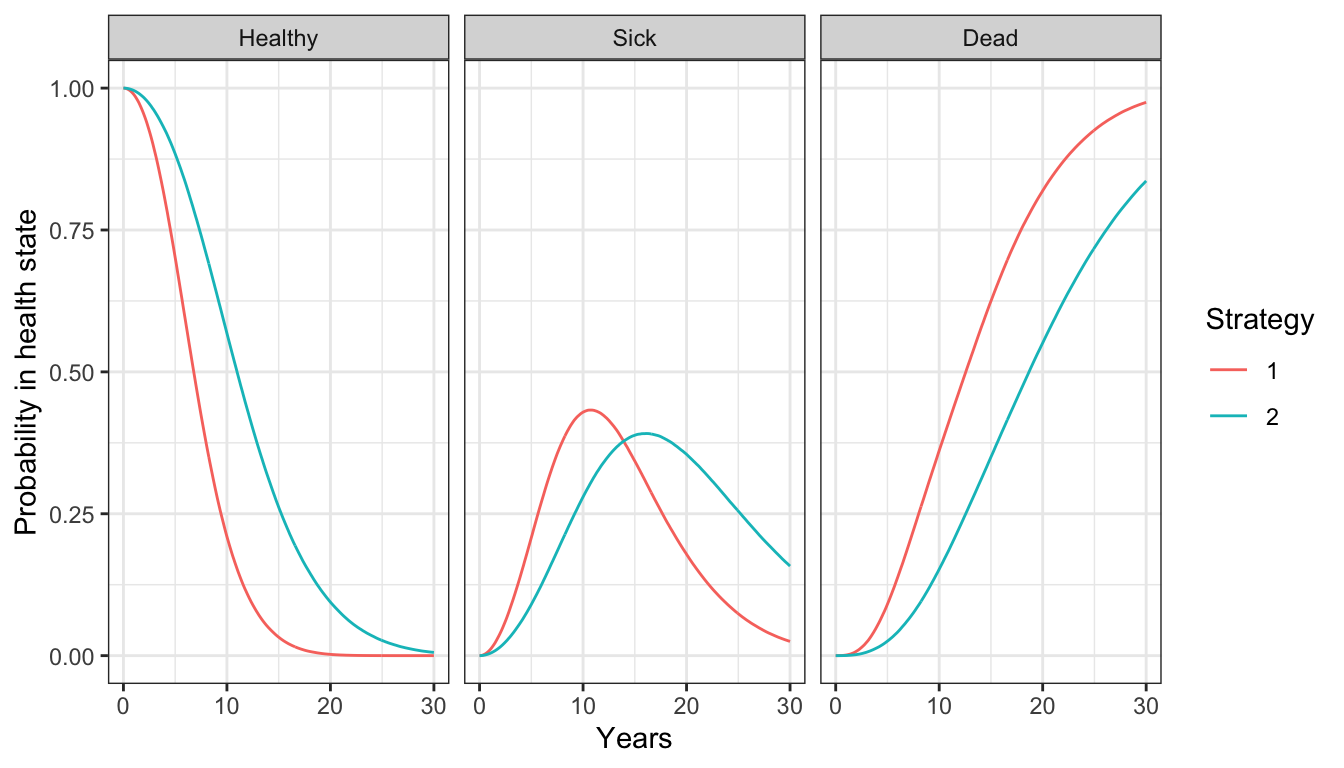
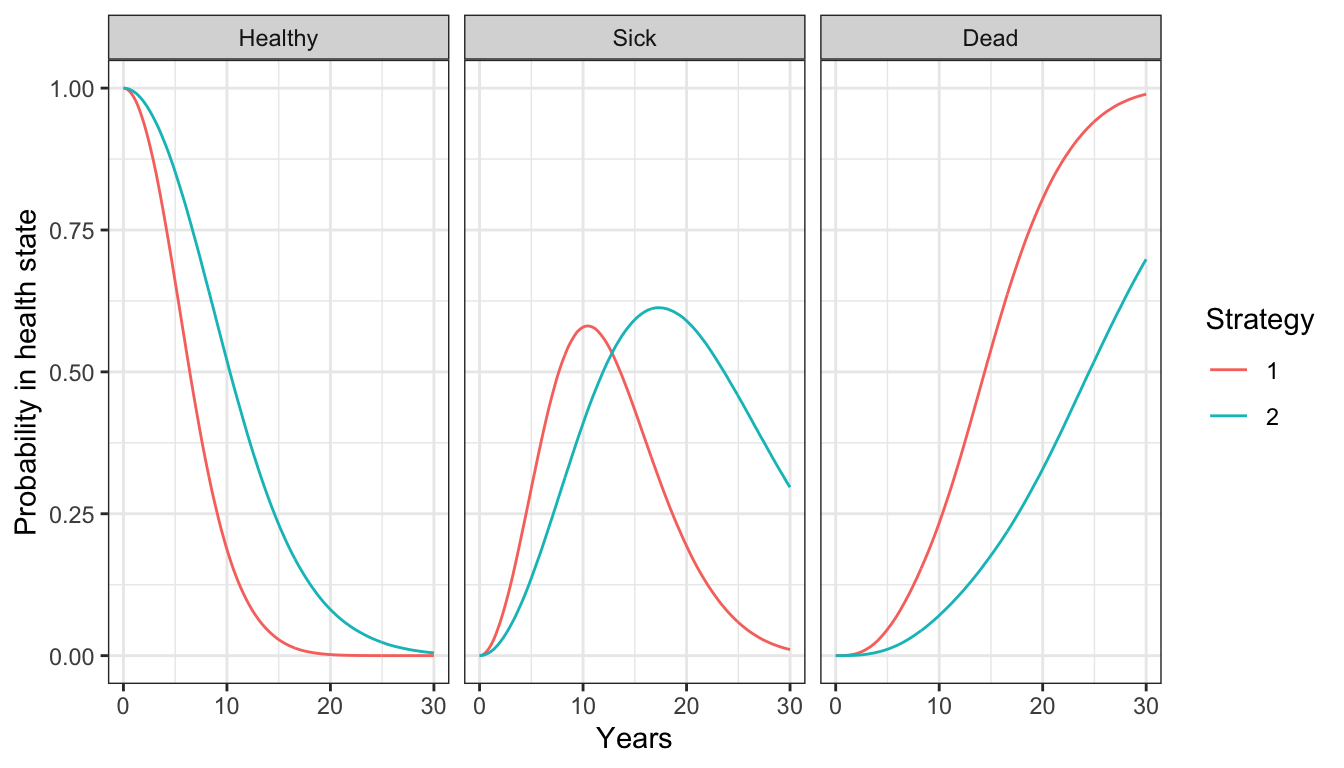
Add function references to website

diff --git a/docs/articles/mstate.html b/docs/articles/mstate.html
@@ -37,6 +37,9 @@
 
     <div id="navbar" class="navbar-collapse collapse">
       <ul class="nav navbar-nav">
+<li>
+  <a href="../reference/index.html">Reference</a>
+</li>
 <li class="dropdown">
   <a href="#" class="dropdown-toggle" data-toggle="dropdown" role="button" aria-expanded="false">
     Tutorials
@@ -88,7 +91,7 @@
     <div class="page-header toc-ignore">
       <h1 data-toc-skip>Semi-Markov Multi-state Model</h1>
             
-            <h4 class="date">2020-09-06</h4>
+            <h4 class="date">2020-09-07</h4>
       
       <small class="dont-index">Source: <a href="https://github.com/hesim-dev/ispor-short-course/blob/master/vignettes/mstate.Rmd"><code>vignettes/mstate.Rmd</code></a></small>
       <div class="hidden name"><code>mstate.Rmd</code></div>
@@ -194,19 +197,21 @@
 <div id="multi-state-model" class="section level2">
 <h2 class="hasAnchor">
 <a href="#multi-state-model" class="anchor"></a><span class="header-section-number">4.1</span> Multi-state model</h2>
-<p>Multi-state data consists of one row for each possible transition from a given health state where only one transition is observed and all others are censored. We created the function <code><a href="../reference/sim_mstate_data.html">sim_mstate_data()</a></code> which leverages <code>hesim</code> to simulate a hypothetical cohort of 2000 patients for a healthy-sick-dead model.</p>
-<div class="sourceCode" id="cb6"><html><body><pre class="r"><span class="no">data</span> <span class="kw">&lt;-</span> <span class="kw pkg">rcea</span><span class="kw ns">::</span><span class="fu"><a href="../reference/sim_mstate_data.html">sim_mstate_data</a></span>(<span class="kw">n</span> <span class="kw">=</span> <span class="fl">2000</span>)
+<p>Multi-state data consists of one row for each possible transition from a given health state where only one transition is observed and all others are censored. We created the function <code>sim_mstate_data()</code> which leverages <code>hesim</code> to simulate a hypothetical cohort of 2000 patients for a healthy-sick-dead model.</p>
+<div class="sourceCode" id="cb6"><html><body><pre class="r"><span class="no">data</span> <span class="kw">&lt;-</span> <span class="kw pkg">rcea</span><span class="kw ns">::</span><span class="fu"><a href="../reference/sim_mstate3_data.html">sim_mstate3_data</a></span>(<span class="kw">n</span> <span class="kw">=</span> <span class="fl">2000</span>)
 <span class="no">data</span>[<span class="no">patient_id</span> <span class="kw">%in%</span> <span class="fu"><a href="https://rdrr.io/r/base/c.html">c</a></span>(<span class="fl">1</span>, <span class="fl">2</span>)]</pre></body></html></div>
-<pre><code>##    from to female      age patient_id final time_start time_stop transition_id
-## 1:    1  2      1 54.37365          1     0          0         8             1
-## 2:    1  3      1 54.37365          1     0          0         8             1
-## 3:    1  2      1 58.93437          2     0          0         8             2
-## 4:    1  3      1 58.93437          2     1          0         8             2
-##    status strategy_id strategy_name time
-## 1:      0           2           New    8
-## 2:      0           2           New    8
-## 3:      0           1           SOC    8
-## 4:      0           1           SOC    8</code></pre>
+<pre><code>##    from to female      age patient_id final time_start time_stop status
+## 1:    1  2      1 54.37365          1     0    0.00000  11.66523      1
+## 2:    1  3      1 54.37365          1     0    0.00000  11.66523      0
+## 3:    2  3      1 54.37365          1     1   11.66523  15.00000      0
+## 4:    1  2      1 58.93437          2     0    0.00000  15.00000      0
+## 5:    1  3      1 58.93437          2     1    0.00000  15.00000      0
+##    transition_id strategy_id strategy_name      time
+## 1:             1           2           New 11.665231
+## 2:             2           2           New 11.665231
+## 3:             3           2           New  3.334769
+## 4:             1           1           SOC 15.000000
+## 5:             2           1           SOC 15.000000</code></pre>
 <p>Multi-state models can be fit by estimating a joint survival model with interaction terms for different transition (see the <code>hesim</code> <a href="https://hesim-dev.github.io/hesim/articles/intro.html">introductory vignette</a> for more details) or by fitting separate survival models for each transition. We will take the latter approach and and fit 3 parametric Weibull models. (Note that in an applied example you should compare the performance of multiple distributions.)</p>
 <div class="sourceCode" id="cb8"><html><body><pre class="r"><span class="no">n_trans</span> <span class="kw">&lt;-</span> <span class="fu"><a href="https://rdrr.io/r/base/Extremes.html">max</a></span>(<span class="no">tmat</span>, <span class="kw">na.rm</span> <span class="kw">=</span> <span class="fl">TRUE</span>) <span class="co"># Number of transitions</span>
 <span class="no">wei_fits</span> <span class="kw">&lt;-</span> <span class="fu"><a href="https://rdrr.io/r/base/vector.html">vector</a></span>(<span class="kw">length</span> <span class="kw">=</span> <span class="no">n_trans</span>, <span class="kw">mode</span> <span class="kw">=</span> <span class="st">"list"</span>)
@@ -332,12 +337,12 @@
 <div class="sourceCode" id="cb21"><html><body><pre class="r"><span class="no">econmod</span>$<span class="fu">sim_disease</span>(<span class="kw">max_age</span> <span class="kw">=</span> <span class="fl">100</span>)
 <span class="fu"><a href="https://rdrr.io/r/utils/head.html">head</a></span>(<span class="no">econmod</span>$<span class="no">disprog_</span>)</pre></body></html></div>
 <pre><code>##    sample strategy_id patient_id grp_id from to final time_start time_stop
-## 1:      1           1          1      1    1  3     1   0.000000  8.547690
-## 2:      1           1          2      1    1  2     0   0.000000  2.740025
-## 3:      1           1          2      1    2  3     1   2.740025 14.654683
-## 4:      1           1          3      1    1  2     0   0.000000  7.151150
-## 5:      1           1          3      1    2  3     1   7.151150 26.324771
-## 6:      1           1          4      1    1  2     0   0.000000 12.604367</code></pre>
+## 1:      1           1          1      1    1  2     0   0.000000 10.270374
+## 2:      1           1          1      1    2  3     1  10.270374 15.265547
+## 3:      1           1          2      1    1  2     0   0.000000  1.405695
+## 4:      1           1          2      1    2  3     1   1.405695  8.443941
+## 5:      1           1          3      1    1  2     0   0.000000  3.826669
+## 6:      1           1          3      1    2  3     1   3.826669 17.575081</code></pre>
 <p>The IPS can be summarized by computing state occupancy probabilities at different time points. We do that using <code>$sim_stateprobs()</code>.</p>
 <div class="sourceCode" id="cb23"><html><body><pre class="r"><span class="no">econmod</span>$<span class="fu">sim_stateprobs</span>(<span class="kw">t</span> <span class="kw">=</span> <span class="fu"><a href="https://rdrr.io/r/base/seq.html">seq</a></span>(<span class="fl">0</span>, <span class="fl">30</span> , <span class="fl">1</span>/<span class="fl">12</span>))</pre></body></html></div>
 <p><img src="mstate_files/figure-html/unnamed-chunk-17-1.png" width="672"></p>
@@ -349,22 +354,22 @@
 <div class="sourceCode" id="cb24"><html><body><pre class="r"><span class="no">econmod</span>$<span class="fu"><a href="https://rdrr.io/pkg/hesim/man/sim_ev.html">sim_qalys</a></span>(<span class="kw">dr</span> <span class="kw">=</span> <span class="fu"><a href="https://rdrr.io/r/base/c.html">c</a></span>(<span class="fl">0</span>,<span class="fl">.03</span>))
 <span class="fu"><a href="https://rdrr.io/r/utils/head.html">head</a></span>(<span class="no">econmod</span>$<span class="no">qalys_</span>)</pre></body></html></div>
 <pre><code>##    sample strategy_id grp_id state_id dr     qalys       lys
-## 1:      1           1      1        1  0  7.333490  7.333490
-## 2:      1           1      1        2  0  5.282375  7.995782
-## 3:      1           2      1        1  0 11.858581 11.858581
-## 4:      1           2      1        2  0  6.594848  9.982434
-## 5:      2           1      1        1  0  7.260854  7.260854
-## 6:      2           1      1        2  0  3.838045  5.556297</code></pre>
+## 1:      1           1      1        1  0  6.826347  6.826347
+## 2:      1           1      1        2  0  5.506157  8.334513
+## 3:      1           2      1        1  0 11.260634 11.260634
+## 4:      1           2      1        2  0  9.218637 13.953990
+## 5:      2           1      1        1  0  6.903153  6.903153
+## 6:      2           1      1        2  0  5.416277  7.841088</code></pre>
 <p>Costs for each category are simulated in a similar fashion.</p>
 <div class="sourceCode" id="cb26"><html><body><pre class="r"><span class="no">econmod</span>$<span class="fu"><a href="https://rdrr.io/pkg/hesim/man/sim_ev.html">sim_costs</a></span>(<span class="kw">dr</span> <span class="kw">=</span> <span class="fl">0.03</span>)
 <span class="fu"><a href="https://rdrr.io/r/utils/head.html">head</a></span>(<span class="no">econmod</span>$<span class="no">costs_</span>)</pre></body></html></div>
-<pre><code>##    sample strategy_id grp_id state_id   dr category      costs
-## 1:      1           1      1        1 0.03     Drug  12855.508
-## 2:      1           1      1        2 0.03     Drug  10401.950
-## 3:      1           2      1        1 0.03     Drug 115346.101
-## 4:      1           2      1        2 0.03     Drug  54735.910
-## 5:      2           1      1        1 0.03     Drug  12772.939
-## 6:      2           1      1        2 0.03     Drug   7765.597</code></pre>
+<pre><code>##    sample strategy_id grp_id state_id   dr category     costs
+## 1:      1           1      1        1 0.03     Drug  12041.74
+## 2:      1           1      1        2 0.03     Drug  11616.02
+## 3:      1           2      1        1 0.03     Drug 110147.39
+## 4:      1           2      1        2 0.03     Drug  77654.61
+## 5:      2           1      1        1 0.03     Drug  12150.26
+## 6:      2           1      1        2 0.03     Drug  10999.10</code></pre>
 </div>
 </div>
 </div>
@@ -378,10 +383,10 @@
                        <span class="kw">k</span> <span class="kw">=</span> <span class="fu"><a href="https://rdrr.io/r/base/seq.html">seq</a></span>(<span class="fl">0</span>, <span class="fl">25000</span>, <span class="fl">500</span>))
 <span class="fu"><a href="https://rdrr.io/pkg/hesim/man/icer_tbl.html">icer_tbl</a></span>(<span class="no">icea_pw_out</span>, <span class="kw">colnames</span> <span class="kw">=</span> <span class="no">strategies</span>$<span class="no">strategy_name</span>)</pre></body></html></div>
 <pre><code>##                   SOC New                         
-## Incremental QALYs "-" "3.49 (2.40, 4.53)"         
-## Incremental costs "-" "152,391 (125,763, 195,642)"
-## Incremental NMB   "-" "21,958 (-14,094, 59,000)"  
-## ICER              "-" "43,703"                    
+## Incremental QALYs "-" "4.42 (3.94, 5.01)"         
+## Incremental costs "-" "191,254 (164,247, 249,102)"
+## Incremental NMB   "-" "29,925 (-29,270, 66,594)"  
+## ICER              "-" "43,235"                    
 ## Conclusion        "-" "Cost-effective"</code></pre>
 </div>
   </div>

diff --git a/docs/articles/markov-cohort-hesim.html b/docs/articles/markov-cohort-hesim.html
@@ -37,6 +37,9 @@
 
     <div id="navbar" class="navbar-collapse collapse">
       <ul class="nav navbar-nav">
+<li>
+  <a href="../reference/index.html">Reference</a>
+</li>
 <li class="dropdown">
   <a href="#" class="dropdown-toggle" data-toggle="dropdown" role="button" aria-expanded="false">
     Tutorials
@@ -88,7 +91,7 @@
     <div class="page-header toc-ignore">
       <h1 data-toc-skip>Markov Cohort Model wth hesim</h1>
             
-            <h4 class="date">2020-09-06</h4>
+            <h4 class="date">2020-09-07</h4>
       
       <small class="dont-index">Source: <a href="https://github.com/hesim-dev/ispor-short-course/blob/master/vignettes/markov-cohort-hesim.Rmd"><code>vignettes/markov-cohort-hesim.Rmd</code></a></small>
       <div class="hidden name"><code>markov-cohort-hesim.Rmd</code></div>
@@ -246,12 +249,12 @@
 <div class="sourceCode" id="cb12"><html><body><pre class="r"><span class="no">econmod</span>$<span class="fu"><a href="https://rdrr.io/pkg/hesim/man/sim_ev.html">sim_qalys</a></span>(<span class="kw">dr</span> <span class="kw">=</span> <span class="fl">0.03</span>, <span class="kw">integrate_method</span> <span class="kw">=</span> <span class="st">"riemann_left"</span>)
 <span class="fu"><a href="https://rdrr.io/r/utils/head.html">head</a></span>(<span class="no">econmod</span>$<span class="no">qalys_</span>)</pre></body></html></div>
 <pre><code>##    sample strategy_id patient_id grp_id state_id   dr category      qalys
-## 1:      1           1          1      1        1 0.03    qalys 15.0953836
-## 2:      1           1          1      1        2 0.03    qalys  0.4901545
-## 3:      1           1          1      1        3 0.03    qalys  3.6333215
-## 4:      1           2          1      1        1 0.03    qalys 18.9267450
-## 5:      1           2          1      1        2 0.03    qalys  0.4732228
-## 6:      1           2          1      1        3 0.03    qalys  2.7821539</code></pre>
+## 1:      1           1          1      1        1 0.03    qalys 14.7454736
+## 2:      1           1          1      1        2 0.03    qalys  0.1794085
+## 3:      1           1          1      1        3 0.03    qalys  3.7048544
+## 4:      1           2          1      1        1 0.03    qalys 17.1417959
+## 5:      1           2          1      1        2 0.03    qalys  0.1778280
+## 6:      1           2          1      1        3 0.03    qalys  3.1796442</code></pre>
 <div class="sourceCode" id="cb14"><html><body><pre class="r"><span class="no">econmod</span>$<span class="fu"><a href="https://rdrr.io/pkg/hesim/man/sim_ev.html">sim_costs</a></span>(<span class="kw">dr</span> <span class="kw">=</span> <span class="fl">0.03</span>, <span class="kw">integrate_method</span> <span class="kw">=</span> <span class="st">"riemann_left"</span>)</pre></body></html></div>
 </div>
 </div>
@@ -266,10 +269,10 @@
 <p>Although <code><a href="https://rdrr.io/pkg/hesim/man/icea.html">icea_pw()</a></code> allows users to summarize a PSA we will just create an ICER table using means from the PSA for now. An analysis of PSA output will be covered in a later tutorial.</p>
 <div class="sourceCode" id="cb16"><html><body><pre class="r"><span class="fu"><a href="https://rdrr.io/pkg/hesim/man/icer_tbl.html">icer_tbl</a></span>(<span class="no">icea_pw_out</span>, <span class="kw">colnames</span> <span class="kw">=</span> <span class="no">strategies</span>$<span class="no">strategy_name</span>)</pre></body></html></div>
 <pre><code>##                   SOC New                           
-## Incremental QALYs "-" "2.09 (1.03, 3.14)"           
-## Incremental costs "-" "266,737 (210,810, 296,919)"  
-## Incremental NMB   "-" "-162,367 (-220,016, -77,412)"
-## ICER              "-" "127,784"                     
+## Incremental QALYs "-" "2.07 (1.04, 3.18)"           
+## Incremental costs "-" "267,201 (215,829, 295,106)"  
+## Incremental NMB   "-" "-163,928 (-218,445, -90,851)"
+## ICER              "-" "129,367"                     
 ## Conclusion        "-" "Not cost-effective"</code></pre>
 </div>
   </div>

diff --git a/docs/articles/markov-cohort-psa.html b/docs/articles/markov-cohort-psa.html
@@ -37,6 +37,9 @@
 
     <div id="navbar" class="navbar-collapse collapse">
       <ul class="nav navbar-nav">
+<li>
+  <a href="../reference/index.html">Reference</a>
+</li>
 <li class="dropdown">
   <a href="#" class="dropdown-toggle" data-toggle="dropdown" role="button" aria-expanded="false">
     Tutorials
@@ -88,7 +91,7 @@
     <div class="page-header toc-ignore">
       <h1 data-toc-skip>Incorporating Probabilistic Sensitivity Analysis</h1>
             
-            <h4 class="date">2020-09-06</h4>
+            <h4 class="date">2020-09-07</h4>
       
       <small class="dont-index">Source: <a href="https://github.com/hesim-dev/ispor-short-course/blob/master/vignettes/markov-cohort-psa.Rmd"><code>vignettes/markov-cohort-psa.Rmd</code></a></small>
       <div class="hidden name"><code>markov-cohort-psa.Rmd</code></div>
@@ -191,20 +194,20 @@
 <span class="fu"><a href="https://rdrr.io/r/base/names.html">names</a></span>(<span class="no">params_rng</span>)</pre></body></html></div>
 <pre><code>## [1] "p_soc"     "rr_new"    "c_medical" "c_soc"     "c_new"     "u"</code></pre>
 <div class="sourceCode" id="cb6"><html><body><pre class="r"><span class="fu"><a href="https://rdrr.io/r/utils/head.html">head</a></span>(<span class="fu"><a href="https://Rdatatable.gitlab.io/data.table/reference/as.matrix.html">as.matrix</a></span>(<span class="no">params_rng</span>$<span class="no">p_soc</span>))</pre></body></html></div>
-<pre><code>##            h_h      h_s1 h_s2         h_d      s1_h     s1_s1      s1_s2
-## [1,] 0.8426332 0.1559307    0 0.001436050 0.5375066 0.3562735 0.09904832
-## [2,] 0.8419210 0.1546127    0 0.003466285 0.4828979 0.4041517 0.10837461
-## [3,] 0.8473861 0.1509559    0 0.001657987 0.5217624 0.3741104 0.09956319
-## [4,] 0.8462304 0.1532220    0 0.000547633 0.5221458 0.3700133 0.10382115
-## [5,] 0.8487650 0.1496273    0 0.001607722 0.4939344 0.3976661 0.10150823
-## [6,] 0.8434597 0.1548158    0 0.001724517 0.5406757 0.3696775 0.08446603
+<pre><code>##            h_h      h_s1 h_s2          h_d      s1_h     s1_s1      s1_s2
+## [1,] 0.8529235 0.1453124    0 0.0017641211 0.4872055 0.3931723 0.11487758
+## [2,] 0.8511200 0.1437455    0 0.0051345500 0.5005998 0.3961569 0.09664363
+## [3,] 0.8467181 0.1530494    0 0.0002324705 0.5020104 0.3999351 0.09318785
+## [4,] 0.8324742 0.1651570    0 0.0023688017 0.5244028 0.3674988 0.10122967
+## [5,] 0.8490486 0.1482251    0 0.0027262196 0.4996046 0.3710783 0.12398745
+## [6,] 0.8656763 0.1332896    0 0.0010340680 0.4774011 0.4252557 0.09163748
 ##             s1_d s2_h s2_s1     s2_s2       s2_d d_h d_s1 d_s2 d_d
-## [1,] 0.007171661    0     0 0.9788774 0.02112263   0    0    0   1
-## [2,] 0.004575710    0     0 0.9827847 0.01721532   0    0    0   1
-## [3,] 0.004564013    0     0 0.9767547 0.02324530   0    0    0   1
-## [4,] 0.004019723    0     0 0.9832028 0.01679722   0    0    0   1
-## [5,] 0.006891224    0     0 0.9861018 0.01389816   0    0    0   1
-## [6,] 0.005180829    0     0 0.9831000 0.01689996   0    0    0   1</code></pre>
+## [1,] 0.004744607    0     0 0.9808029 0.01919715   0    0    0   1
+## [2,] 0.006599710    0     0 0.9791286 0.02087141   0    0    0   1
+## [3,] 0.004866692    0     0 0.9847451 0.01525491   0    0    0   1
+## [4,] 0.006868723    0     0 0.9817224 0.01827759   0    0    0   1
+## [5,] 0.005329651    0     0 0.9661358 0.03386422   0    0    0   1
+## [6,] 0.005705746    0     0 0.9857870 0.01421301   0    0    0   1</code></pre>
 </div>
 <div id="simulating-the-markov-model" class="section level2">
 <h2 class="hasAnchor">

diff --git a/docs/articles/markov-cohort.html b/docs/articles/markov-cohort.html
@@ -37,6 +37,9 @@
 
     <div id="navbar" class="navbar-collapse collapse">
       <ul class="nav navbar-nav">
+<li>
+  <a href="../reference/index.html">Reference</a>
+</li>
 <li class="dropdown">
   <a href="#" class="dropdown-toggle" data-toggle="dropdown" role="button" aria-expanded="false">
     Tutorials
@@ -88,7 +91,7 @@
     <div class="page-header toc-ignore">
       <h1 data-toc-skip>Simple Markov Cohort Model</h1>
             
-            <h4 class="date">2020-09-06</h4>
+            <h4 class="date">2020-09-07</h4>
       
       <small class="dont-index">Source: <a href="https://github.com/hesim-dev/ispor-short-course/blob/master/vignettes/markov-cohort.Rmd"><code>vignettes/markov-cohort.Rmd</code></a></small>
       <div class="hidden name"><code>markov-cohort.Rmd</code></div>
@@ -242,7 +245,7 @@ NPV = \sum_{t} PV_t
 ##     }
 ##     return(x)
 ## }
-## &lt;bytecode: 0x7f838911ab30&gt;
+## &lt;bytecode: 0x7ffe264af310&gt;
 ## &lt;environment: namespace:rcea&gt;</code></pre>
 <p>We perform the computation for both the SOC and new treatment. As expected, patients remain in less severe health states longer when using the new treatment.</p>
 <div class="sourceCode" id="cb15"><html><body><pre class="r"><span class="no">x_soc</span> <span class="kw">&lt;-</span> <span class="fu"><a href="../reference/sim_markov_chain.html">sim_markov_chain</a></span>(<span class="no">x_init</span>, <span class="no">p_soc</span>)
@@ -274,7 +277,7 @@ NPV = \sum_{t} PV_t
 ## {
 ##     z/(1 + dr)^t
 ## }
-## &lt;bytecode: 0x7f838a01f3a0&gt;
+## &lt;bytecode: 0x7ffe266d78e8&gt;
 ## &lt;environment: namespace:rcea&gt;</code></pre>
 <div id="qalys" class="section level3">
 <h3 class="hasAnchor">

diff --git a/docs/articles/partitioned-survival-model.html b/docs/articles/partitioned-survival-model.html
@@ -37,6 +37,9 @@
 
     <div id="navbar" class="navbar-collapse collapse">
       <ul class="nav navbar-nav">
+<li>
+  <a href="../reference/index.html">Reference</a>
+</li>
 <li class="dropdown">
   <a href="#" class="dropdown-toggle" data-toggle="dropdown" role="button" aria-expanded="false">
     Tutorials
@@ -88,7 +91,7 @@
     <div class="page-header toc-ignore">
       <h1 data-toc-skip>Partitioned Survival Model</h1>
             
-            <h4 class="date">2020-09-06</h4>
+            <h4 class="date">2020-09-07</h4>
       
       <small class="dont-index">Source: <a href="https://github.com/hesim-dev/ispor-short-course/blob/master/vignettes/partitioned-survival-model.Rmd"><code>vignettes/partitioned-survival-model.Rmd</code></a></small>
       <div class="hidden name"><code>partitioned-survival-model.Rmd</code></div>

diff --git a/docs/articles/cea.html b/docs/articles/cea.html
@@ -37,6 +37,9 @@
 
     <div id="navbar" class="navbar-collapse collapse">
       <ul class="nav navbar-nav">
+<li>
+  <a href="../reference/index.html">Reference</a>
+</li>
 <li class="dropdown">
   <a href="#" class="dropdown-toggle" data-toggle="dropdown" role="button" aria-expanded="false">
     Tutorials
@@ -88,7 +91,7 @@
     <div class="page-header toc-ignore">
       <h1 data-toc-skip>Decision Analysis</h1>
             
-            <h4 class="date">2020-09-06</h4>
+            <h4 class="date">2020-09-07</h4>
       
       <small class="dont-index">Source: <a href="https://github.com/hesim-dev/ispor-short-course/blob/master/vignettes/cea.Rmd"><code>vignettes/cea.Rmd</code></a></small>
       <div class="hidden name"><code>cea.Rmd</code></div>

diff --git a/docs/reference/sim_markov_chain.html b/docs/reference/sim_markov_chain.html
@@ -79,7 +79,10 @@ that is, a Markov chain with constant transition probabilities." />
 
     <div id="navbar" class="navbar-collapse collapse">
       <ul class="nav navbar-nav">
-        <li class="dropdown">
+        <li>
+  <a href="../reference/index.html">Reference</a>
+</li>
+<li class="dropdown">
   <a href="#" class="dropdown-toggle" data-toggle="dropdown" role="button" aria-expanded="false">
     Tutorials
      

diff --git a/docs/reference/sim_mstate3_data.html b/docs/reference/sim_mstate3_data.html
@@ -80,7 +80,10 @@ right censored after 15 years of followup." />
 
     <div id="navbar" class="navbar-collapse collapse">
       <ul class="nav navbar-nav">
-        <li class="dropdown">
+        <li>
+  <a href="../reference/index.html">Reference</a>
+</li>
+<li class="dropdown">
   <a href="#" class="dropdown-toggle" data-toggle="dropdown" role="button" aria-expanded="false">
     Tutorials
      

diff --git a/docs/reference/sim_pfs_os_data.html b/docs/reference/sim_pfs_os_data.html
@@ -80,7 +80,10 @@ and overall survival (OS)." />
 
     <div id="navbar" class="navbar-collapse collapse">
       <ul class="nav navbar-nav">
-        <li class="dropdown">
+        <li>
+  <a href="../reference/index.html">Reference</a>
+</li>
+<li class="dropdown">
   <a href="#" class="dropdown-toggle" data-toggle="dropdown" role="button" aria-expanded="false">
     Tutorials
      

diff --git a/docs/reference/pv.html b/docs/reference/pv.html
@@ -79,7 +79,10 @@ dr and times t." />
 
     <div id="navbar" class="navbar-collapse collapse">
       <ul class="nav navbar-nav">
-        <li class="dropdown">
+        <li>
+  <a href="../reference/index.html">Reference</a>
+</li>
+<li class="dropdown">
   <a href="#" class="dropdown-toggle" data-toggle="dropdown" role="button" aria-expanded="false">
     Tutorials
      

diff --git a/docs/articles/index.html b/docs/articles/index.html
@@ -77,7 +77,10 @@
 
     <div id="navbar" class="navbar-collapse collapse">
       <ul class="nav navbar-nav">
-        <li class="dropdown">
+        <li>
+  <a href="../reference/index.html">Reference</a>
+</li>
+<li class="dropdown">
   <a href="#" class="dropdown-toggle" data-toggle="dropdown" role="button" aria-expanded="false">
     Tutorials
      

diff --git a/docs/reference/index.html b/docs/reference/index.html
@@ -77,7 +77,10 @@
 
     <div id="navbar" class="navbar-collapse collapse">
       <ul class="nav navbar-nav">
-        <li class="dropdown">
+        <li>
+  <a href="../reference/index.html">Reference</a>
+</li>
+<li class="dropdown">
   <a href="#" class="dropdown-toggle" data-toggle="dropdown" role="button" aria-expanded="false">
     Tutorials
      
